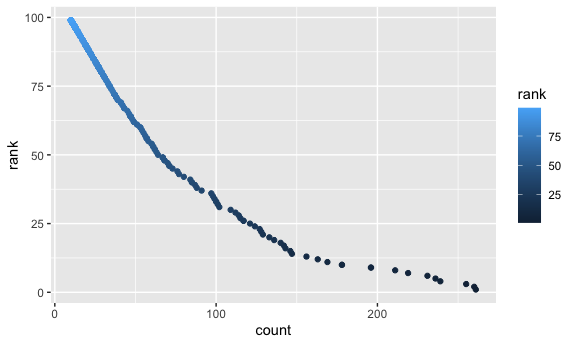
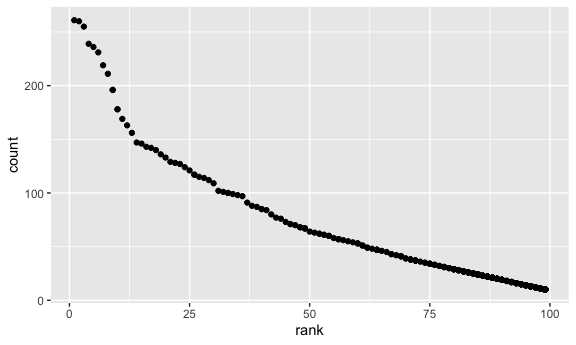
paragraph

diff --git a/P8105_HW2_qc2307.md b/P8105_HW2_qc2307.md
@@ -57,25 +57,61 @@ wheel_data_raw = read_excel("./data/Trash-Wheel-Collection-Totals-7-2020-2.xlsx"
 wheel_clean_name = janitor::clean_names(wheel_data_raw)
 wheel_data_selected = drop_na(wheel_clean_name, dumpster)
 wheel_data_rounded = mutate(wheel_data_selected, sports_balls = round(sports_balls))
-wheel_data_raw_2018 = read_excel("./data/Trash-Wheel-Collection-Totals-7-2020-2.xlsx", sheet = 7, range =  "A2:B14")
-wheel_data_raw_2019 = read_excel("./data/Trash-Wheel-Collection-Totals-7-2020-2.xlsx", sheet = 6, range = "A2:B14")
-wheel_clean_name_2018 = janitor::clean_names(wheel_data_raw_2018)
-wheel_clean_name_2019 = janitor::clean_names(wheel_data_raw_2019)
-wheel_2018_dropNA = drop_na(wheel_clean_name_2018, total)
-wheel_2019_dropNA = drop_na(wheel_clean_name_2019, total)
-wheel_2018 = mutate(
-  wheel_2018_dropNA,
+wheel_data_rounded
+```
+
+    ## # A tibble: 454 × 17
+    ##    dumpster month  year date                weight_tons volume_cubic_yards
+    ##    <chr>    <chr> <dbl> <dttm>                    <dbl>              <dbl>
+    ##  1 1        May    2014 2014-05-16 00:00:00        4.31                 18
+    ##  2 2        May    2014 2014-05-16 00:00:00        2.74                 13
+    ##  3 3        May    2014 2014-05-16 00:00:00        3.45                 15
+    ##  4 4        May    2014 2014-05-17 00:00:00        3.1                  15
+    ##  5 5        May    2014 2014-05-17 00:00:00        4.06                 18
+    ##  6 6        May    2014 2014-05-20 00:00:00        2.71                 13
+    ##  7 7        May    2014 2014-05-21 00:00:00        1.91                  8
+    ##  8 8        May    2014 2014-05-28 00:00:00        3.7                  16
+    ##  9 9        June   2014 2014-06-05 00:00:00        2.52                 14
+    ## 10 10       June   2014 2014-06-11 00:00:00        3.76                 18
+    ## # … with 444 more rows, and 11 more variables: plastic_bottles <dbl>,
+    ## #   polystyrene <dbl>, cigarette_butts <dbl>, glass_bottles <dbl>,
+    ## #   grocery_bags <dbl>, chip_bags <dbl>, sports_balls <dbl>,
+    ## #   homes_powered <dbl>, x15 <chr>, x16 <lgl>, x17 <lgl>
+
+``` r
+wheel_clean_row = nrow(wheel_data_rounded)
+wheel_clean_row
+```
+
+    ## [1] 454
+
+``` r
+wheel_clean_col = ncol(wheel_data_rounded)
+wheel_clean_col
+```
+
+    ## [1] 17
+
+``` r
+precipitation_data_raw_2018 = read_excel("./data/Trash-Wheel-Collection-Totals-7-2020-2.xlsx", sheet = 7, range =  "A2:B14")
+precipitation_data_raw_2019 = read_excel("./data/Trash-Wheel-Collection-Totals-7-2020-2.xlsx", sheet = 6, range = "A2:B14")
+precipitation_clean_name_2018 = janitor::clean_names(precipitation_data_raw_2018)
+precipitation_clean_name_2019 = janitor::clean_names(precipitation_data_raw_2019)
+precipitation_2018_dropNA = drop_na(precipitation_clean_name_2018, total)
+precipitation_2019_dropNA = drop_na(precipitation_clean_name_2019, total)
+precipitation_2018 = mutate(
+  precipitation_2018_dropNA,
   year = 2018,
   month = month.name[month],
 )
-wheel_2018 = relocate(wheel_2018, year)
-wheel_2019 = mutate(
-  wheel_2019_dropNA,
+precipitation_2018 = relocate(precipitation_2018, year)
+precipitation_2019 = mutate(
+  precipitation_2019_dropNA,
   year = 2019,
   month = month.name[month],
 )
-wheel_2019 = relocate(wheel_2019, year)
-wheel_2018
+precipitation_2019 = relocate(precipitation_2019, year)
+precipitation_2018
 ```
 
     ## # A tibble: 12 × 3
@@ -95,7 +131,7 @@ wheel_2018
     ## 12  2018 December   6.11
 
 ``` r
-wheel_2019
+precipitation_2019
 ```
 
     ## # A tibble: 12 × 3
@@ -115,7 +151,7 @@ wheel_2019
     ## 12  2019 December   3.57
 
 ``` r
-combined_2018_2019 = rbind(wheel_2018, wheel_2019)
+combined_2018_2019 = rbind(precipitation_2018, precipitation_2019)
 combined_2018_2019_relocated = relocate(combined_2018_2019, year)
 combined_2018_2019_relocated
 ```
@@ -135,9 +171,20 @@ combined_2018_2019_relocated
     ## 10  2018 October    2.12
     ## # … with 14 more rows
 
-(write a short paragraph about this dataset) In the dataset
-`combined_2018_2019_relocated`, there are three columns including year,
-month, and total.
+``` r
+combined_2018_2019_row = nrow(combined_2018_2019_relocated)
+combined_2018_2019_col = ncol(combined_2018_2019_relocated)
+```
+
+(write a short paragraph about this dataset): The dataset
+`wheel_data_rounded` is generated after doing data clean and rounding
+`sports_balls` variable. In the dataset wheel\_data\_rounded, there are
+454 rows and 17 columns. The precipitation dataset
+`combined_2018_2019_relocated` is generated through combining the
+precipitation data sheet of 2018 and the precipitation data sheet of
+2019. In the dataset, there are 24 rows and 3 columns. The total
+precipitation in 2018 is 70.33. The median precipitation in 2019 is
+3.335.
 
 ## Question 2
 
@@ -338,13 +385,13 @@ result1 = left_join(pols_month_df, snp_data_df)
     ## Joining, by = c("year", "month")
 
 ``` r
-final_result = left_join(result1, unemployment_df)
+pols_snp_unemployment = left_join(result1, unemployment_df)
 ```
 
     ## Joining, by = c("year", "month")
 
 ``` r
-final_result
+pols_snp_unemployment
 ```
 
     ## # A tibble: 822 × 11
@@ -362,7 +409,20 @@ final_result
     ## 10  1947 October dem            23      51     253      23      45     198    NA
     ## # … with 812 more rows, and 1 more variable: unemployment_rate <dbl>
 
-(write a short paragraph about this dataset)
+(write a short paragraph about this dataset): After reading in and
+cleaning the data, for the dataset `pols_month_df`, there are 822 rows
+and 9 columns. The data from year 1947 to year 2015 are included. The
+key variables include `precident`, `gov_gop`, `gov_dem`, `sen_gop`,
+`sen_dem`, `rep_gop`, and `rep_dem`. For the `snp_data_df` dataset,
+there are 787 rows and 3 columns. The data from year 1950 to year 2015
+are included. Further, the key variable include `close`. For the
+`unemployment_df` dataset, there are 816 rows and 3 columns. The data
+from year 1948 to year 2015 are included. The key variable is
+`unemployment_rate`. Then, after combining the datasets,
+`pols_snp_unemployment` dataset is generated. there are 822 rows and 11
+columns. The data from year 1947 to year 2015 are included. The key
+variables include `precident`, `gov_gop`, `gov_dem`, `sen_gop`,
+`sen_dem`, `rep_gop`, `rep_dem`, `close`, and `unemployment_rate`.
 
 ## Qestion 3
 
@@ -432,80 +492,69 @@ baby_name_df
 # Step_2:Produce a well-structured, reader-friendly table containing rows for ethnicities and columns for year, and showing the rank in popularity of the name “Olivia” as a female baby name over time;
 baby_female_name = 
   baby_name_df %>%
-  filter(gender == "FEMALE") %>%
+  filter(gender == "FEMALE", childs_first_name == "Olivia") %>%
   pivot_wider(
-    names_from = ethnicity,
-    values_from = rank,
+    names_from = "year_of_birth",
+    values_from = "rank",
   ) %>%
-  select(-gender) %>%
-  filter(childs_first_name == "Olivia") %>%
-  arrange(year_of_birth)
+  select(-gender) 
 baby_female_name
 ```
 
     ## # A tibble: 16 × 7
-    ##    year_of_birth childs_first_name count `ASIAN AND PACIFIC I… `BLACK NON HISPA…
-    ##            <dbl> <chr>             <dbl>                 <dbl>             <dbl>
-    ##  1          2013 Olivia              233                    NA                NA
-    ##  2          2013 Olivia              109                     3                NA
-    ##  3          2013 Olivia               64                    NA                 6
-    ##  4          2013 Olivia               87                    NA                NA
-    ##  5          2014 Olivia              141                     1                NA
-    ##  6          2014 Olivia              248                    NA                NA
-    ##  7          2014 Olivia               52                    NA                 8
-    ##  8          2014 Olivia               96                    NA                NA
-    ##  9          2015 Olivia              188                     1                NA
-    ## 10          2015 Olivia              225                    NA                NA
-    ## 11          2015 Olivia               82                    NA                 4
-    ## 12          2015 Olivia               94                    NA                NA
-    ## 13          2016 Olivia              172                     1                NA
-    ## 14          2016 Olivia              230                    NA                NA
-    ## 15          2016 Olivia               49                    NA                 8
-    ## 16          2016 Olivia              108                    NA                NA
-    ## # … with 2 more variables: HISPANIC <dbl>, WHITE NON HISPANIC <dbl>
+    ##    ethnicity                  childs_first_name count `2016` `2015` `2014` `2013`
+    ##    <chr>                      <chr>             <dbl>  <dbl>  <dbl>  <dbl>  <dbl>
+    ##  1 ASIAN AND PACIFIC ISLANDER Olivia              172      1     NA     NA     NA
+    ##  2 WHITE NON HISPANIC         Olivia              230      1     NA     NA     NA
+    ##  3 ASIAN AND PACIFIC ISLANDER Olivia              188     NA      1     NA     NA
+    ##  4 WHITE NON HISPANIC         Olivia              225     NA      1     NA     NA
+    ##  5 ASIAN AND PACIFIC ISLANDER Olivia              141     NA     NA      1     NA
+    ##  6 WHITE NON HISPANIC         Olivia              248     NA     NA      1     NA
+    ##  7 WHITE NON HISPANIC         Olivia              233     NA     NA     NA      1
+    ##  8 ASIAN AND PACIFIC ISLANDER Olivia              109     NA     NA     NA      3
+    ##  9 BLACK NON HISPANIC         Olivia               82     NA      4     NA     NA
+    ## 10 BLACK NON HISPANIC         Olivia               64     NA     NA     NA      6
+    ## 11 BLACK NON HISPANIC         Olivia               49      8     NA     NA     NA
+    ## 12 BLACK NON HISPANIC         Olivia               52     NA     NA      8     NA
+    ## 13 HISPANIC                   Olivia              108     13     NA     NA     NA
+    ## 14 HISPANIC                   Olivia               94     NA     16     NA     NA
+    ## 15 HISPANIC                   Olivia               96     NA     NA     16     NA
+    ## 16 HISPANIC                   Olivia               87     NA     NA     NA     22
 
 ``` r
 # Step_3:Similar table as above for male baby;
 baby_male_name = 
   baby_name_df %>%
-  filter(gender == "MALE") %>%
+  filter(gender == "MALE", rank == 1) %>%
   pivot_wider(
-    names_from = ethnicity,
-    values_from = rank,
+    names_from = "year_of_birth",
+    values_from = "rank",
   ) %>%
-  select(-gender) %>%
-  filter(childs_first_name == "Ethan") %>%
-  arrange(year_of_birth)
+  select(-gender)
 baby_male_name
 ```
 
-    ## # A tibble: 16 × 7
-    ##    year_of_birth childs_first_name count `ASIAN AND PACIFIC I… `BLACK NON HISPA…
-    ##            <dbl> <chr>             <dbl>                 <dbl>             <dbl>
-    ##  1          2013 Ethan               146                    NA                 1
-    ##  2          2013 Ethan               165                     2                NA
-    ##  3          2013 Ethan               252                    NA                NA
-    ##  4          2013 Ethan               125                    NA                NA
-    ##  5          2014 Ethan               138                    NA                 1
-    ##  6          2014 Ethan               179                     2                NA
-    ##  7          2014 Ethan               262                    NA                NA
-    ##  8          2014 Ethan               149                    NA                NA
-    ##  9          2015 Ethan               172                     2                NA
-    ## 10          2015 Ethan               332                    NA                NA
-    ## 11          2015 Ethan               111                    NA                 5
-    ## 12          2015 Ethan               138                    NA                NA
-    ## 13          2016 Ethan               193                     1                NA
-    ## 14          2016 Ethan               107                    NA                 5
-    ## 15          2016 Ethan               250                    NA                NA
-    ## 16          2016 Ethan               133                    NA                NA
-    ## # … with 2 more variables: HISPANIC <dbl>, WHITE NON HISPANIC <dbl>
+    ## # A tibble: 24 × 9
+    ##    ethnicity    childs_first_na… count `2016` `2015` `2014` `2013` `2012` `2011`
+    ##    <chr>        <chr>            <dbl>  <dbl>  <dbl>  <dbl>  <dbl>  <dbl>  <dbl>
+    ##  1 ASIAN AND P… Ethan              193      1     NA     NA     NA     NA     NA
+    ##  2 BLACK NON H… Noah               148      1     NA     NA     NA     NA     NA
+    ##  3 HISPANIC     Liam               387      1     NA     NA     NA     NA     NA
+    ##  4 WHITE NON H… Joseph             261      1     NA     NA     NA     NA     NA
+    ##  5 ASIAN AND P… Jayden             190     NA      1     NA     NA     NA     NA
+    ##  6 BLACK NON H… Noah               163     NA      1     NA     NA     NA     NA
+    ##  7 HISPANIC     Liam               356     NA      1     NA     NA     NA     NA
+    ##  8 WHITE NON H… David              299     NA      1     NA     NA     NA     NA
+    ##  9 ASIAN AND P… Jayden             187     NA     NA      1     NA     NA     NA
+    ## 10 BLACK NON H… Ethan              138     NA     NA      1     NA     NA     NA
+    ## # … with 14 more rows
 
 ``` r
 # Step_4:For male, white non-hispanic children born in 2016, produce a scatter plot showing the number of children with a name (y axis) against the rank in popularity of that name (x axis);
 baby_male_name_2016 = 
   baby_name_df %>%
   filter(year_of_birth == 2016, ethnicity == "WHITE NON HISPANIC", gender == "MALE") %>%
-  ggplot(aes(x = count, y = rank, color = rank)) + geom_point()
+  ggplot(aes(x = rank, y = count)) + geom_point()
 baby_male_name_2016
 ```
 
